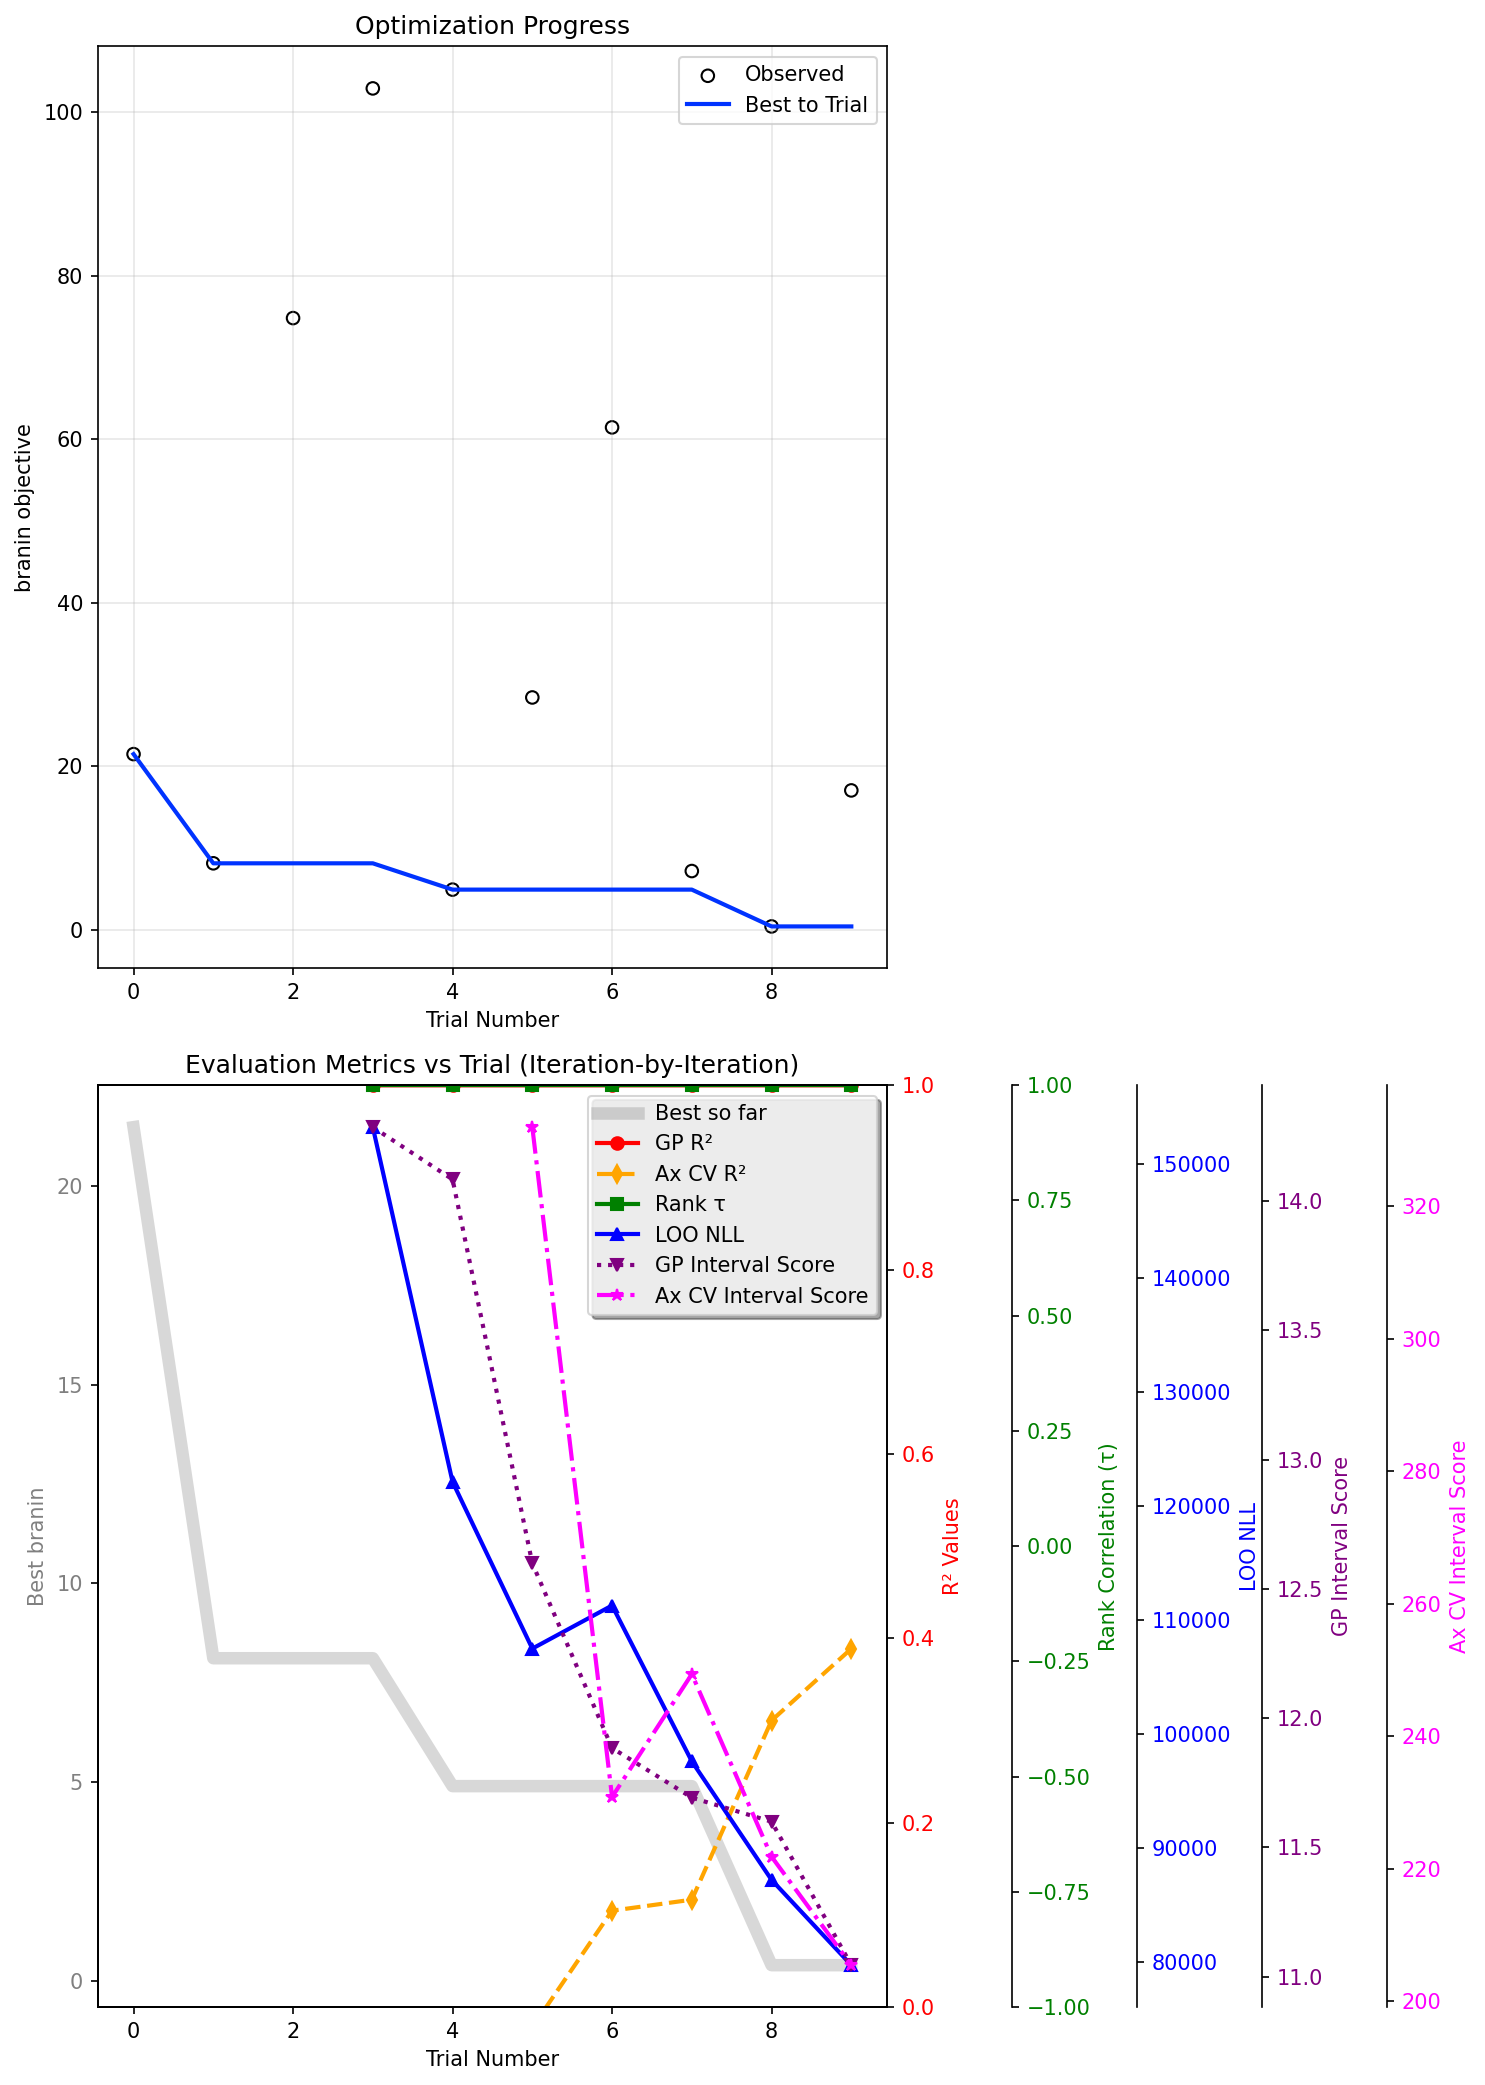
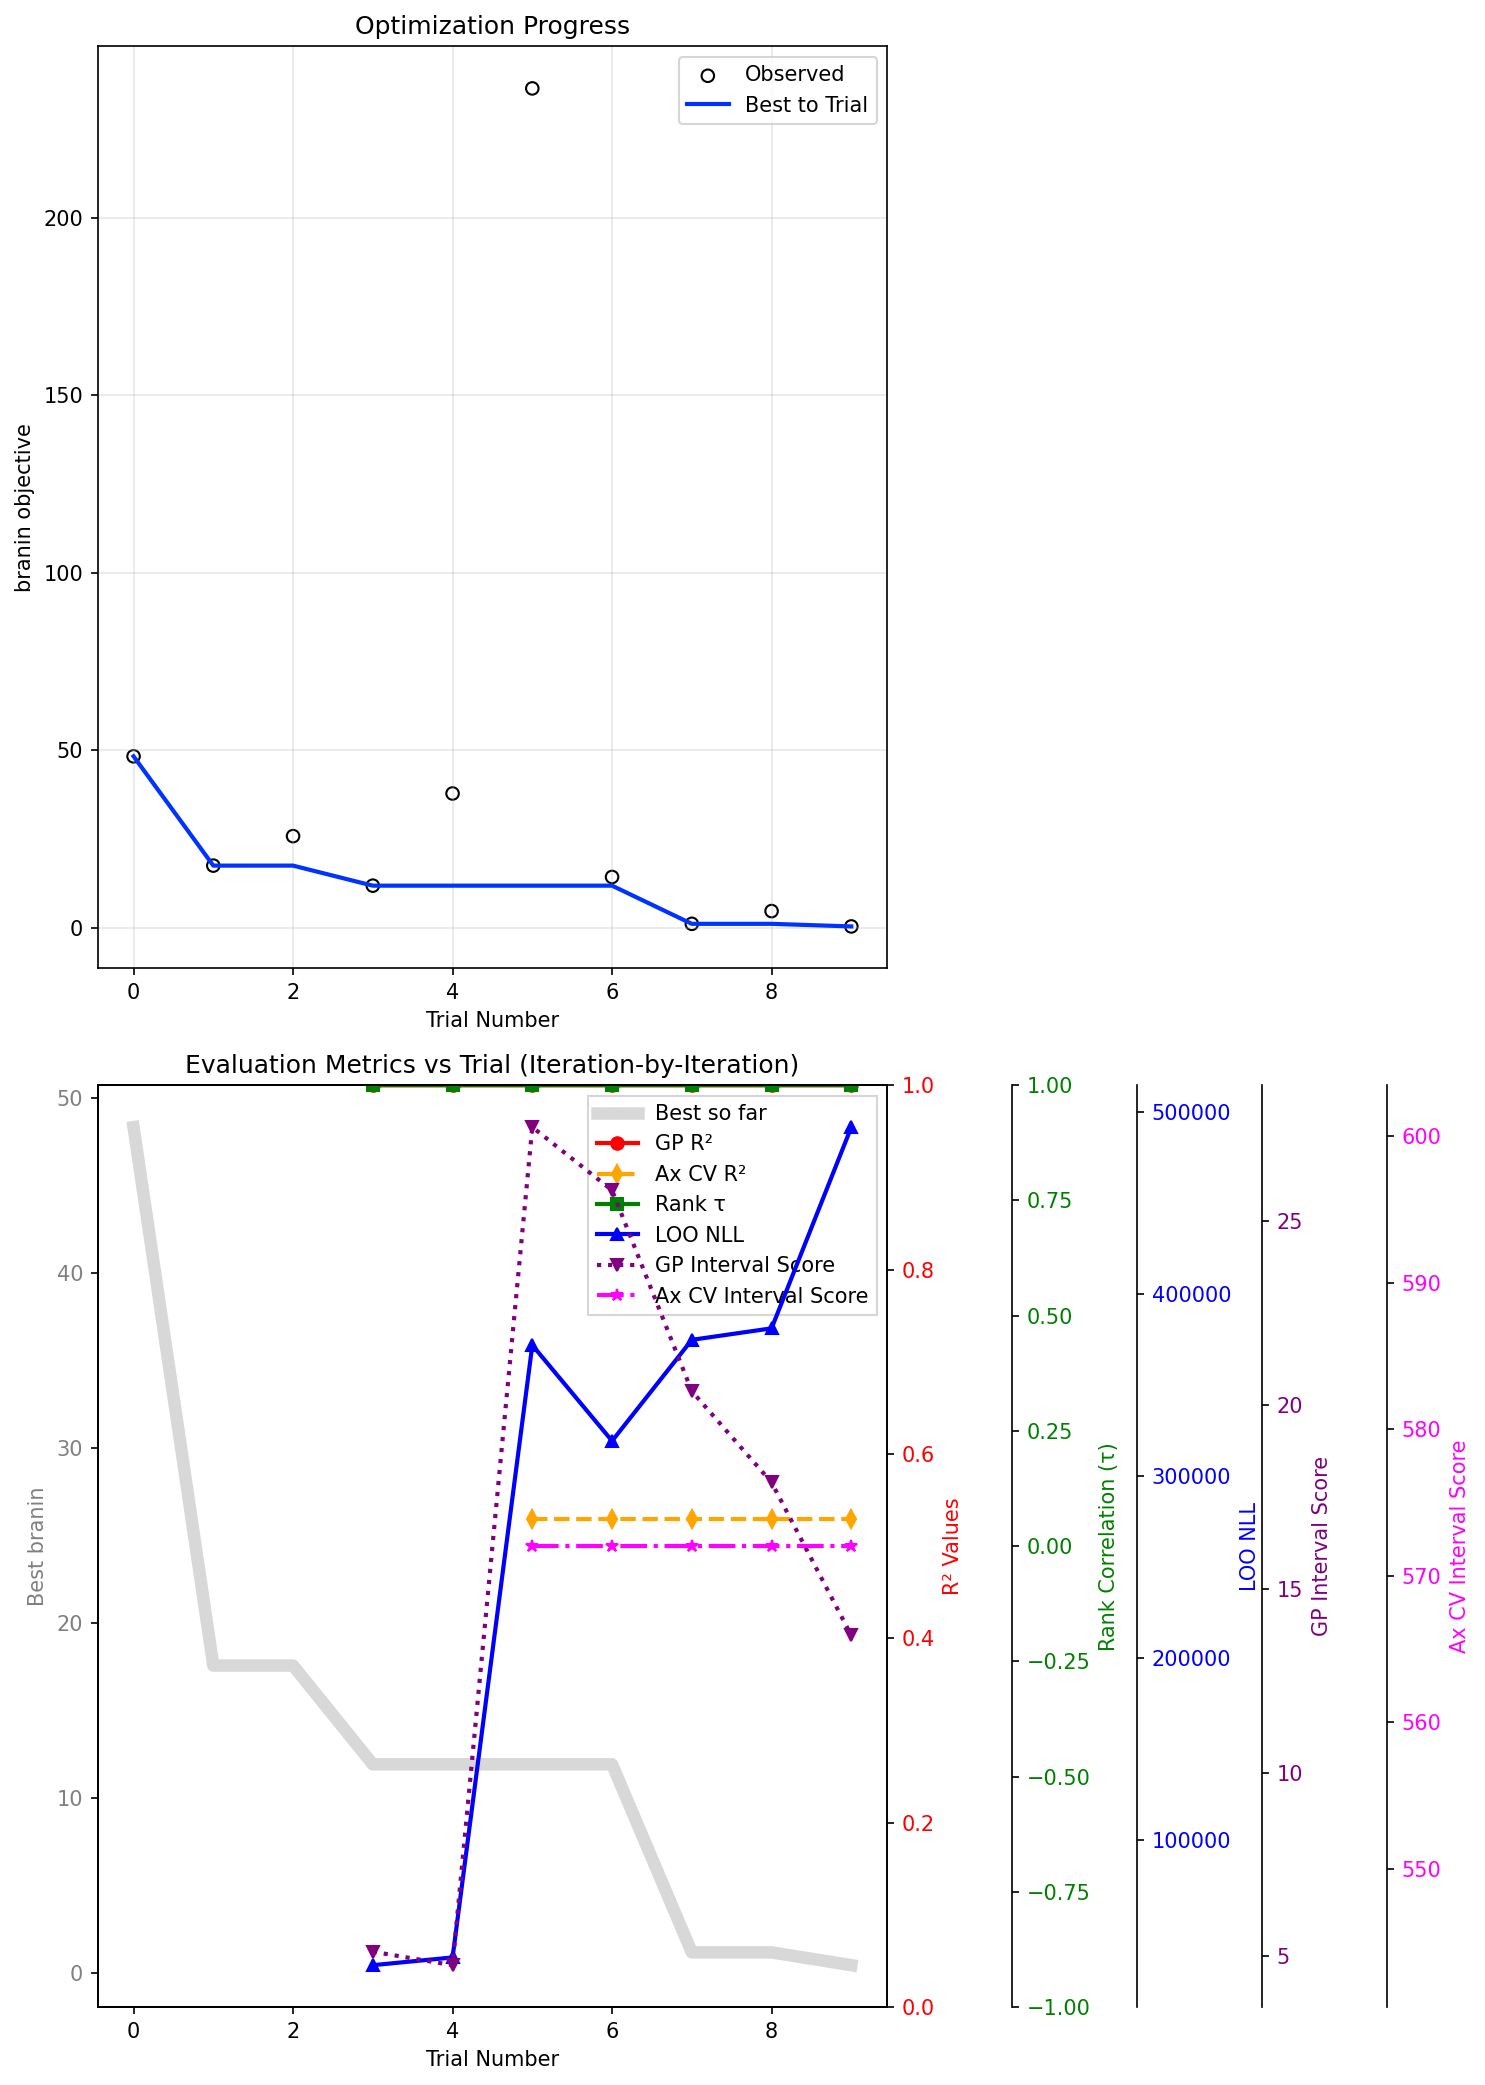
Address review feedback: fix assert statement, legend transparency, and implement dual AxClient architecture

diff --git a/scripts/bo_benchmarks/demonstrations/branin_campaign_demonstration.py b/scripts/bo_benchmarks/demonstrations/branin_campaign_demonstration.py
@@ -59,25 +59,44 @@ def normal_95ci(mean, std):
     return lower, upper
 
 
-def calculate_ax_cross_validation_metrics(ax_client, trial_index):
-    """Calculate metrics using Ax's built-in cross validation with the main client."""
+def calculate_ax_cross_validation_metrics(ax_client_cv, trial_index, x1, x2, result):
+    """
+    Calculate metrics using a separate Ax client dedicated to cross-validation.
+    This client skips Sobol initialization and uses BOTORCH_MODULAR immediately.
+    """
     try:
         # Skip if not enough data for cross-validation
         if trial_index < 3:
             return None, None
         
-        # Check if client has a Bayesian model (not just Sobol)
-        if ax_client.generation_strategy.current_step_index == 0:
-            print("  Main client still in Sobol phase, no CV available yet")
+        # Attach the current trial to the CV client (mirroring main client data)
+        params = {"x1": x1, "x2": x2}
+        _, trial_index_cv = ax_client_cv.attach_trial(parameters=params)
+        ax_client_cv.complete_trial(trial_index=trial_index_cv, raw_data=result)
+        
+        # Force the CV client to generate a trial to trigger model creation if needed
+        # We don't use this trial, it's just to ensure the model bridge is created
+        if len(ax_client_cv.experiment.trials) >= 3 and ax_client_cv.generation_strategy.model is None:
+            try:
+                _, dummy_trial_idx = ax_client_cv.get_next_trial()
+                # Abandon the dummy trial - we just needed to trigger model creation
+                ax_client_cv.abandon_trial(trial_index=dummy_trial_idx)
+            except Exception:
+                pass  # Ignore errors in dummy trial generation
+        
+        # Check if CV client has a Bayesian model
+        # The client should switch to BOTORCH_MODULAR once it has enough data
+        if len(ax_client_cv.experiment.trials) < 3:
+            print("  CV client has insufficient trials for CV")
             return None, None
             
-        # Get the model bridge from the generation strategy 
-        model_bridge = ax_client.generation_strategy.model
+        # Get the model bridge from the CV generation strategy 
+        model_bridge = ax_client_cv.generation_strategy.model
         if model_bridge is None:
-            print("  Model bridge is None")
+            print("  CV model bridge is None")
             return None, None
         
-        # Run cross validation using Ax's built-in function with the model bridge
+        # Run cross validation using Ax's built-in function with the CV model bridge
         cv = cross_validate(model=model_bridge, folds=-1)  # Leave-one-out CV
         fig = interact_cross_validation_plotly(cv)
         
@@ -91,20 +110,17 @@ def calculate_ax_cross_validation_metrics(ax_client, trial_index):
         print(f"  Ax CV R²: {ax_cv_r2:.4f}")
         
         # Extract uncertainty directly from the plot data as requested
-        if hasattr(in_sample_trace, 'error_y') and in_sample_trace.error_y is not None:
-            # Get standard errors from the plot
-            pred_std = np.array(in_sample_trace.error_y.array)
-            
-            # Convert to 95% confidence intervals using the extracted std errors
-            lower = y_pred - 1.96 * pred_std
-            upper = y_pred + 1.96 * pred_std
-            
-            interval_scores = interval_score(y_act, lower, upper)
-            ax_cv_interval_score = np.mean(interval_scores)
-            print(f"  Ax CV Interval Score: {ax_cv_interval_score:.4f}")
-        else:
-            print("  No uncertainty data available from Ax CV")
-            ax_cv_interval_score = None
+        assert hasattr(in_sample_trace, 'error_y') and in_sample_trace.error_y is not None, "No uncertainty data available from Ax CV"
+        # Get standard errors from the plot
+        pred_std = np.array(in_sample_trace.error_y.array)
+        
+        # Convert to 95% confidence intervals using the extracted std errors
+        lower = y_pred - 1.96 * pred_std
+        upper = y_pred + 1.96 * pred_std
+        
+        interval_scores = interval_score(y_act, lower, upper)
+        ax_cv_interval_score = np.mean(interval_scores)
+        print(f"  Ax CV Interval Score: {ax_cv_interval_score:.4f}")
         
         return ax_cv_r2, ax_cv_interval_score
         
@@ -113,7 +129,7 @@ def calculate_ax_cross_validation_metrics(ax_client, trial_index):
         return None, None
 
 
-def calculate_iteration_metrics(ax_client, trial_index):
+def calculate_iteration_metrics(ax_client, ax_client_cv, trial_index, x1, x2, result):
     """Calculate evaluation metrics after each trial using both GP model and Ax cross validation."""
     # Skip if not enough trials
     if trial_index < 3:
@@ -158,7 +174,7 @@ def calculate_iteration_metrics(ax_client, trial_index):
         mean_interval_score = np.mean(interval_scores)
         
         # ===== Ax cross validation metrics =====
-        ax_cv_r2, ax_cv_interval_score = calculate_ax_cross_validation_metrics(ax_client, trial_index)
+        ax_cv_r2, ax_cv_interval_score = calculate_ax_cross_validation_metrics(ax_client_cv, trial_index, x1, x2, result)
         
         metrics = {
             'trial': trial_index,
@@ -197,6 +213,29 @@ ax_client.create_experiment(
     },
 )
 
+# Create separate AxClient for cross-validation that skips Sobol initialization
+# This client will mirror the main client's data but use BOTORCH_MODULAR immediately
+gs_cv = GenerationStrategy(
+    steps=[
+        GenerationStep(
+            model=Models.BOTORCH_MODULAR,
+            num_trials=-1,  # Use for all trials
+            min_trials_observed=0,  # No minimum - start immediately with BOTORCH_MODULAR
+        )
+    ]
+)
+
+ax_client_cv = AxClient(generation_strategy=gs_cv)
+ax_client_cv.create_experiment(
+    parameters=[
+        {"name": "x1", "type": "range", "bounds": [-5.0, 10.0]},
+        {"name": "x2", "type": "range", "bounds": [0.0, 10.0]},
+    ],
+    objectives={
+        obj1_name: ObjectiveProperties(minimize=True),
+    },
+)
+
 # Track metrics per iteration
 all_metrics = []
 
@@ -215,7 +254,7 @@ for i in range(10):
     print(f"Trial {trial_index}: x1={x1:.3f}, x2={x2:.3f}, branin={results:.3f}")
     
     # Calculate metrics after each trial (from trial 3 onward)
-    iteration_metrics = calculate_iteration_metrics(ax_client, trial_index)
+    iteration_metrics = calculate_iteration_metrics(ax_client, ax_client_cv, trial_index, x1, x2, results)
     if iteration_metrics:
         all_metrics.append(iteration_metrics)
 
@@ -353,9 +392,9 @@ if all_metrics:
     
     ax2.set_title("Evaluation Metrics vs Trial (Iteration-by-Iteration)")
     
-    # Place legend inside plot with transparency to avoid axis overlap
+    # Place legend inside plot with white background and transparency
     labels = [l.get_label() for l in lines]
-    legend = ax2.legend(lines, labels, loc='upper right', framealpha=0.8, fancybox=True, shadow=True)
+    legend = ax2.legend(lines, labels, loc='upper right', framealpha=0.8, fancybox=False, shadow=False)
     legend.get_frame().set_facecolor('white')
     
     print(f"\nLOO Negative Log-Likelihood values: {loo_values}")
